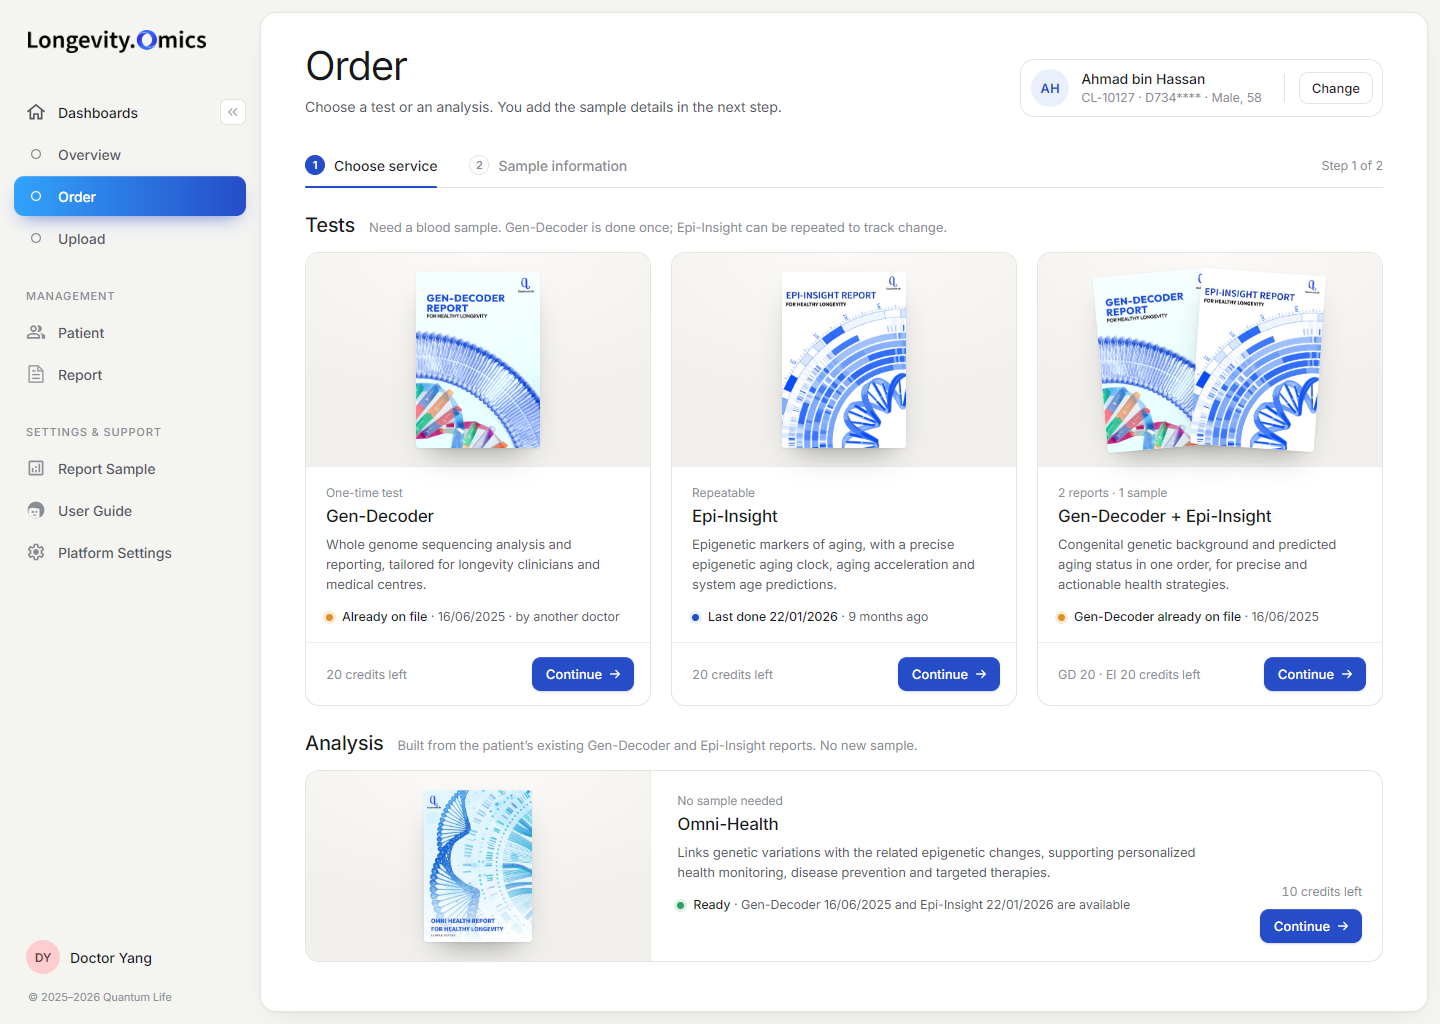
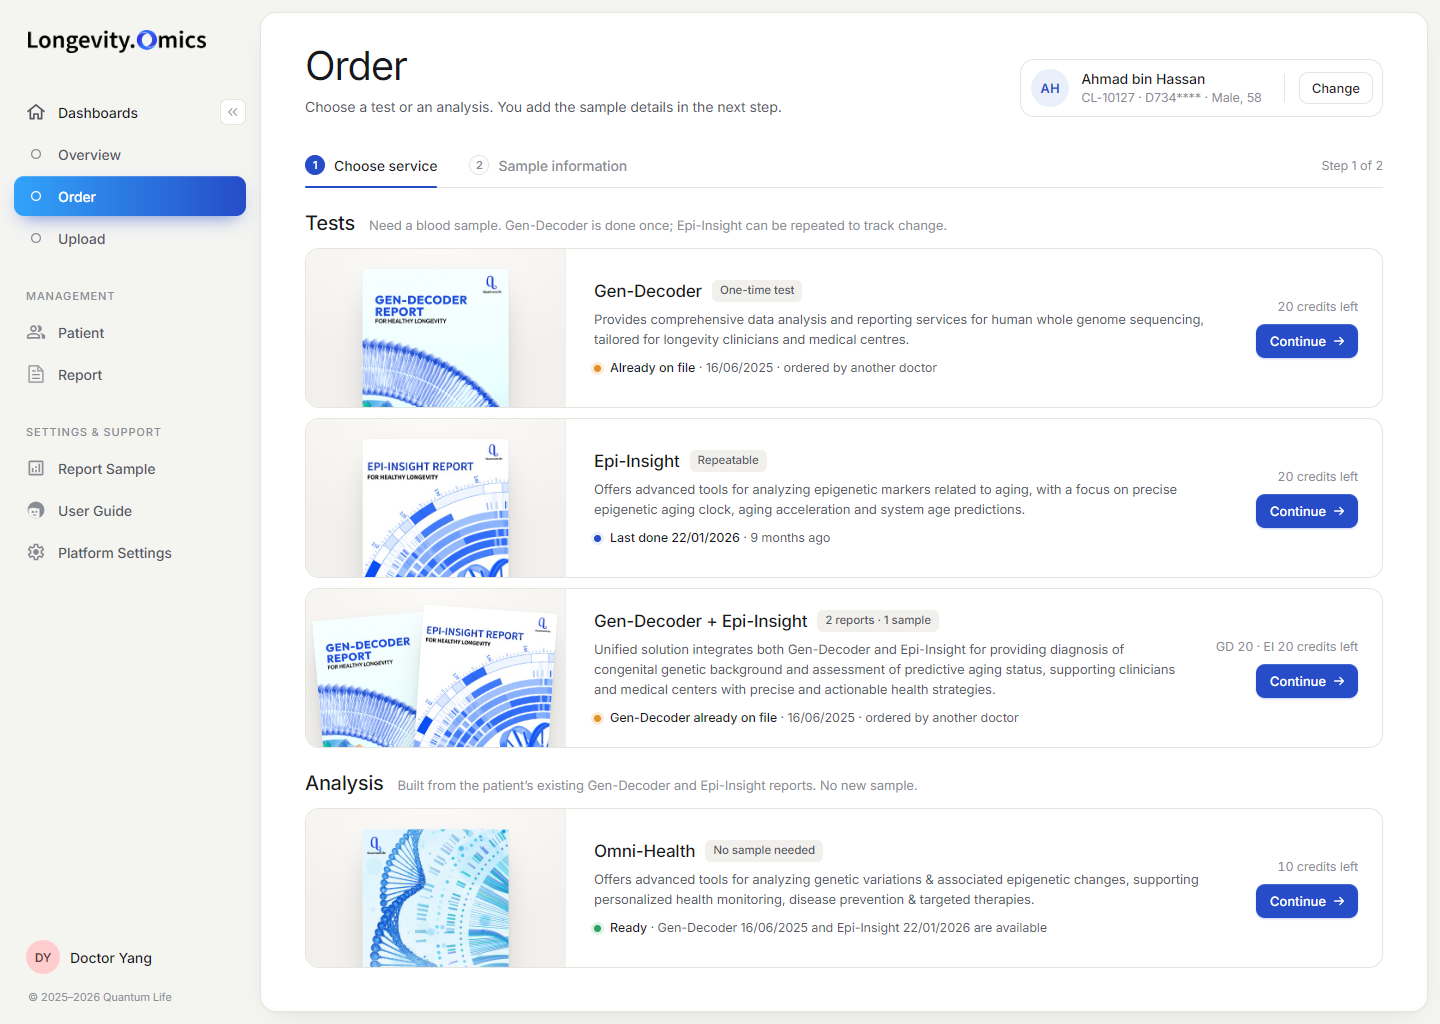
New UI Order: show every service as a full-width row
Rows match the Omni-Health card, keep the layout consistent, and leave
room for the full product descriptions instead of shortened copy.

Changed region(s): [[0.1875, 0.2812, 0.9688, 0.9688], [0.2188, 0.1875, 0.6562, 0.25], [0.875, 0.8438, 0.9688, 0.9375]]

diff --git a/index.html b/index.html
@@ -421,39 +421,31 @@ body.nu-on #frame{display:none}
 .nu .stp.on .k{background:var(--primary);border-color:var(--primary);color:#fff}
 .nu .stp.on::after{content:"";position:absolute;left:0;right:0;bottom:-1px;height:2px;border-radius:2px;background:var(--primary)}
 .nu .steps .aside{margin-left:auto;font-size:12.5px;color:var(--n-ink-3)}
-.nu .sec{margin-top:24px;display:flex;align-items:baseline;gap:14px}
+.nu .sec{margin-top:22px;display:flex;align-items:baseline;gap:14px}
 .nu .sec h2{font-size:20px;line-height:26px;font-weight:500;letter-spacing:-.015em}
 .nu .sec p{font-size:13px;line-height:18px;color:var(--n-ink-3)}
-.nu .grid{margin-top:14px;display:grid;grid-template-columns:repeat(3,minmax(0,1fr));gap:20px}
-.nu .pc{display:flex;flex-direction:column;border:1px solid var(--n-line);border-radius:14px;overflow:hidden;background:#fff}
-.nu .media{position:relative;height:214px;flex:none;display:flex;align-items:center;justify-content:center;background:radial-gradient(120% 95% at 50% 0%,#FBFAF8 0%,var(--n-panel) 72%);border-bottom:1px solid var(--n-line-2)}
-.nu .media img{display:block;height:176px;width:auto;border-radius:3px;box-shadow:0 1px 2px rgba(23,24,27,.08),0 16px 30px -14px rgba(23,24,27,.42)}
-.nu .duo{position:relative;width:232px;height:186px}
-.nu .duo img{position:absolute;top:5px}
-.nu .duo img:first-child{left:6px;transform:rotate(-5deg)}
-.nu .duo img:last-child{right:6px;transform:rotate(4deg)}
-.nu .eb{margin-bottom:3px;font-size:12px;line-height:16px;color:var(--n-ink-3)}
-.nu .pb{flex:1;padding:18px 20px 0}
-.nu .pb h3{font-size:17px;line-height:24px;font-weight:500;letter-spacing:-.012em}
-.nu .pb p{margin-top:6px;font-size:13px;line-height:20px;color:var(--n-ink-2);display:-webkit-box;-webkit-line-clamp:3;-webkit-box-orient:vertical;overflow:hidden}
-.nu .st{margin-top:14px;display:flex;align-items:flex-start;gap:9px;font-size:12.5px;line-height:18px;color:var(--n-ink-2)}
+.nu .list{margin-top:12px;display:flex;flex-direction:column;gap:10px}
+.nu .row{display:flex;min-height:160px;border:1px solid var(--n-line);border-radius:14px;overflow:hidden;background:#fff}
+.nu .media{position:relative;flex:none;width:260px;overflow:hidden;background:radial-gradient(120% 100% at 50% 0%,#FBFAF8 0%,var(--n-panel) 75%);border-right:1px solid var(--n-line-2)}
+.nu .media img{position:absolute;top:20px;left:50%;height:208px;width:auto;transform:translateX(-50%);border-radius:3px;box-shadow:0 1px 2px rgba(23,24,27,.08),0 16px 30px -14px rgba(23,24,27,.42)}
+.nu .media img.l{left:14px;top:26px;height:190px;transform:rotate(-5deg)}
+.nu .media img.r{left:auto;right:14px;top:20px;height:190px;transform:rotate(4deg)}
+.nu .rb{flex:1;min-width:0;display:flex;align-items:center;gap:40px;padding:18px 24px 18px 28px}
+.nu .tx{flex:1;min-width:0;max-width:610px}
+.nu .tt{display:flex;align-items:center;gap:10px}
+.nu .tt h3{font-size:17px;line-height:24px;font-weight:500;letter-spacing:-.012em}
+.nu .tag{height:22px;padding:0 8px;display:inline-flex;align-items:center;border-radius:6px;background:#F1F0EC;font-size:11.5px;font-weight:500;color:var(--n-ink-2);white-space:nowrap}
+.nu .tx p{margin-top:6px;font-size:13px;line-height:20px;color:var(--n-ink-2)}
+.nu .st{margin-top:10px;display:flex;align-items:flex-start;gap:9px;font-size:12.5px;line-height:18px;color:var(--n-ink-2)}
 .nu .st i{flex:none;width:7px;height:7px;margin-top:5.5px;border-radius:50%}
 .nu .st b{font-weight:500;color:var(--n-ink)}
 .nu .st.warn i{background:#E0912A;box-shadow:0 0 0 3px #FBEBD5}
 .nu .st.info i{background:var(--primary);box-shadow:0 0 0 3px var(--n-blue-soft)}
 .nu .st.ok i{background:#2F9E62;box-shadow:0 0 0 3px #DDF2E5}
-.nu .pf{margin-top:16px;padding:14px 16px 14px 20px;display:flex;align-items:center;justify-content:space-between;border-top:1px solid var(--n-line-2)}
+.nu .ac{margin-left:auto;flex:none;display:flex;flex-direction:column;align-items:flex-end;gap:10px}
 .nu .cost{font-size:12.5px;color:var(--n-ink-3);font-variant-numeric:tabular-nums}
 .nu .cta{height:34px;padding:0 12px 0 14px;display:inline-flex;align-items:center;gap:6px;border:0;border-radius:9px;background:var(--primary);color:#fff;font-size:13px;font-weight:500;cursor:default;box-shadow:0 1px 2px rgba(38,76,200,.25),inset 0 1px 0 rgba(255,255,255,.15)}
 .nu .cta svg{width:14px;height:14px}
-.nu .wide{margin-top:14px;display:grid;grid-template-columns:calc((100% - 40px) / 3) 1fr;border:1px solid var(--n-line);border-radius:14px;overflow:hidden}
-.nu .wide .media{height:190px;border-bottom:0;border-right:1px solid var(--n-line-2)}
-.nu .wide .media img{height:152px}
-.nu .wb{display:flex;align-items:stretch;gap:40px;padding:22px 20px 18px 26px}
-.nu .wb .tx{flex:1;min-width:0;max-width:540px}
-.nu .wb h3{font-size:17px;line-height:24px;font-weight:500;letter-spacing:-.012em}
-.nu .wb p{margin-top:6px;font-size:13px;line-height:20px;color:var(--n-ink-2)}
-.nu .wb .ac{margin-left:auto;display:flex;flex-direction:column;align-items:flex-end;justify-content:flex-end;gap:10px}
 </style>
 </head>
 <body>
@@ -1259,34 +1251,32 @@ function buildNewUI(){
   const p = patients.find(x => x.pid === NU_PID), all = reports.filter(r => r.pid === p.pid);
   const latest = (t, av) => all.filter(r => r.type === t && (!av || r.status === "Available")).sort((a, b) => b.date - a.date)[0];
   const gd = latest("Gen-Decoder"), ei = latest("Epi-Insight"), gdA = latest("Gen-Decoder", true), eiA = latest("Epi-Insight", true);
-  const by = r => r.mine ? "by you" : "by another doctor";
+  const by = r => r.mine ? "ordered by you" : "ordered by another doctor";
   const st = (tone, html) => '<div class="st ' + tone + '"><i></i><span>' + html + '</span></div>';
   const arrow = '<svg viewBox="0 0 16 16" fill="none" stroke="currentColor" stroke-width="1.6" stroke-linecap="round" stroke-linejoin="round"><path d="M3 8h10M9 4l4 4-4 4"/></svg>';
   const cta = '<button class="cta" tabindex="-1">Continue' + arrow + '</button>';
   const left = k => clinicCredits[k] + " credits left";
+  const copy = v => [...ORDER_TESTS, ...ORDER_ANALYSIS].find(c => c.value === v).description.replace("Epi-insight", "Epi-Insight");
   const tests = [
-    { chip: "One-time test", media: '<img src="' + COVER.gd + '" alt="">', title: "Gen-Decoder",
-      text: "Whole genome sequencing analysis and reporting, tailored for longevity clinicians and medical centres.",
+    { tag: "One-time test", media: '<img src="' + COVER.gd + '" alt="">', title: "Gen-Decoder", text: copy("Gen-Decoder"),
       st: gd ? st("warn", "<b>Already on file</b> \u00b7 " + fmtDate(gd.date) + " \u00b7 " + by(gd)) : st("info", "<b>Not on file yet</b> for this patient"), cost: left("GenDecoder") },
-    { chip: "Repeatable", media: '<img src="' + COVER.ei + '" alt="">', title: "Epi-Insight",
-      text: "Epigenetic markers of aging, with a precise epigenetic aging clock, aging acceleration and system age predictions.",
+    { tag: "Repeatable", media: '<img src="' + COVER.ei + '" alt="">', title: "Epi-Insight", text: copy("Epi-Insight"),
       st: ei ? st("info", "<b>Last done " + fmtDate(ei.date) + "</b> \u00b7 " + agoText(ei.date)) : st("info", "<b>First test</b> \u00b7 this one becomes the baseline"), cost: left("EpiInsight") },
-    { chip: "2 reports \u00b7 1 sample", media: '<div class="duo"><img src="' + COVER.gd + '" alt=""><img src="' + COVER.ei + '" alt=""></div>', title: "Gen-Decoder + Epi-Insight",
-      text: "Congenital genetic background and predicted aging status in one order, for precise and actionable health strategies.",
-      st: gd ? st("warn", "<b>Gen-Decoder already on file</b> \u00b7 " + fmtDate(gd.date)) : st("info", "<b>Neither report on file yet</b>"), cost: "GD " + clinicCredits.GenDecoder + " \u00b7 EI " + clinicCredits.EpiInsight + " credits left" }
+    { tag: "2 reports \u00b7 1 sample", media: '<img class="l" src="' + COVER.gd + '" alt=""><img class="r" src="' + COVER.ei + '" alt="">', title: "Gen-Decoder + Epi-Insight", text: copy("Gen-Decoder,Epi-Insight"),
+      st: gd ? st("warn", "<b>Gen-Decoder already on file</b> \u00b7 " + fmtDate(gd.date) + " \u00b7 " + by(gd)) : st("info", "<b>Neither report on file yet</b>"), cost: "GD " + clinicCredits.GenDecoder + " \u00b7 EI " + clinicCredits.EpiInsight + " credits left" }
   ];
-  const omniSt = gdA && eiA ? st("ok", "<b>Ready</b> \u00b7 Gen-Decoder " + fmtDate(gdA.date) + " and Epi-Insight " + fmtDate(eiA.date) + " are available") : st("warn", "<b>Needs an available Gen-Decoder and Epi-Insight first</b>");
+  const omni = { tag: "No sample needed", media: '<img src="' + COVER.oh + '" alt="">', title: "Omni-Health", text: copy("Omni-Health"), cost: left("OmniHealth"),
+    st: gdA && eiA ? st("ok", "<b>Ready</b> \u00b7 Gen-Decoder " + fmtDate(gdA.date) + " and Epi-Insight " + fmtDate(eiA.date) + " are available") : st("warn", "<b>Needs an available Gen-Decoder and Epi-Insight first</b>") };
+  const row = c => '<div class="row"><div class="media">' + c.media + '</div><div class="rb"><div class="tx"><div class="tt"><h3>' + c.title + '</h3><span class="tag">' + c.tag + '</span></div>' +
+    '<p>' + esc(c.text) + '</p>' + c.st + '</div><div class="ac"><span class="cost">' + c.cost + '</span>' + cta + '</div></div></div>';
   host.innerHTML = '<div class="sheet">' +
     '<div class="hd"><div><h1>Order</h1><div class="lede">Choose a test or an analysis. You add the sample details in the next step.</div></div>' +
       '<div class="who"><div class="av">' + esc(p.first[0] + p.last[0]) + '</div><div><div class="nm">' + esc(p.name) + '</div><div class="meta">' + esc(p.pid + " \u00b7 " + p.identity + " \u00b7 " + p.gender + ", " + p.age) + '</div></div><div class="vr"></div><button class="ghost" tabindex="-1">Change</button></div></div>' +
     '<div class="steps"><div class="stp on"><span class="k">1</span>Choose service</div><div class="stp"><span class="k">2</span>Sample information</div><div class="aside">Step 1 of 2</div></div>' +
     '<div class="sec"><h2>Tests</h2><p>Need a blood sample. Gen-Decoder is done once; Epi-Insight can be repeated to track change.</p></div>' +
-    '<div class="grid">' + tests.map(c => '<div class="pc"><div class="media">' + c.media + '</div>' +
-      '<div class="pb"><div class="eb">' + c.chip + '</div><h3>' + c.title + '</h3><p>' + c.text + '</p>' + c.st + '</div><div class="pf"><span class="cost">' + c.cost + '</span>' + cta + '</div></div>').join("") + '</div>' +
+    '<div class="list">' + tests.map(row).join("") + '</div>' +
     '<div class="sec"><h2>Analysis</h2><p>Built from the patient\u2019s existing Gen-Decoder and Epi-Insight reports. No new sample.</p></div>' +
-    '<div class="wide"><div class="media"><img src="' + COVER.oh + '" alt=""></div>' +
-      '<div class="wb"><div class="tx"><div class="eb">No sample needed</div><h3>Omni-Health</h3><p>Links genetic variations with the related epigenetic changes, supporting personalized health monitoring, disease prevention and targeted therapies.</p>' + omniSt + '</div>' +
-      '<div class="ac"><span class="cost">' + left("OmniHealth") + '</span>' + cta + '</div></div></div>' +
+    '<div class="list">' + row(omni) + '</div>' +
     '</div>';
   host.prepend(sb);
 }
